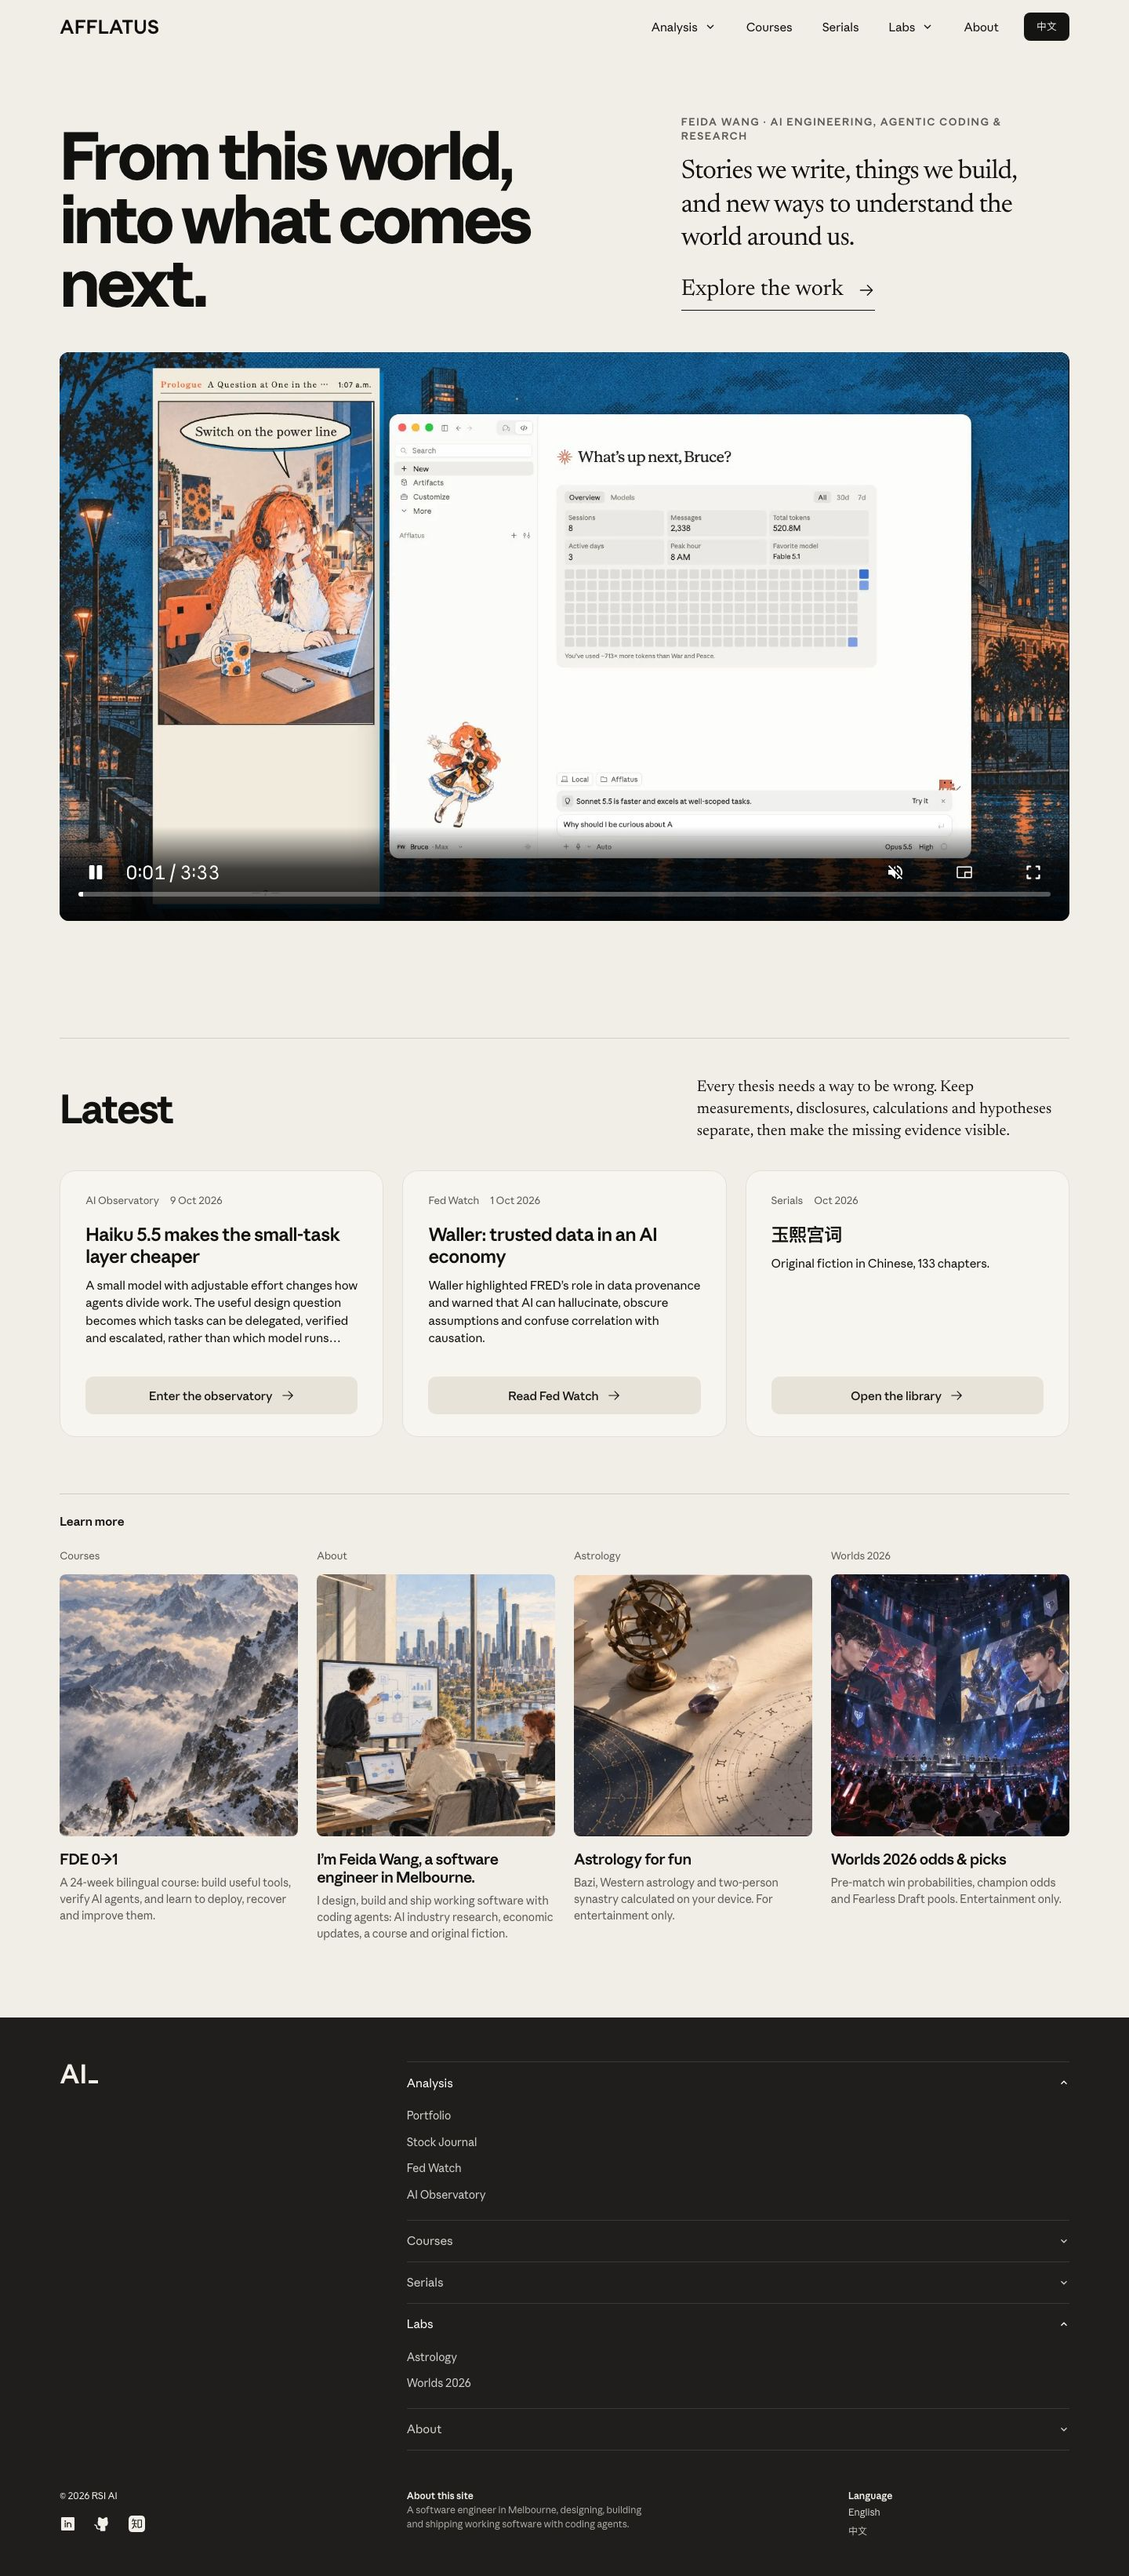
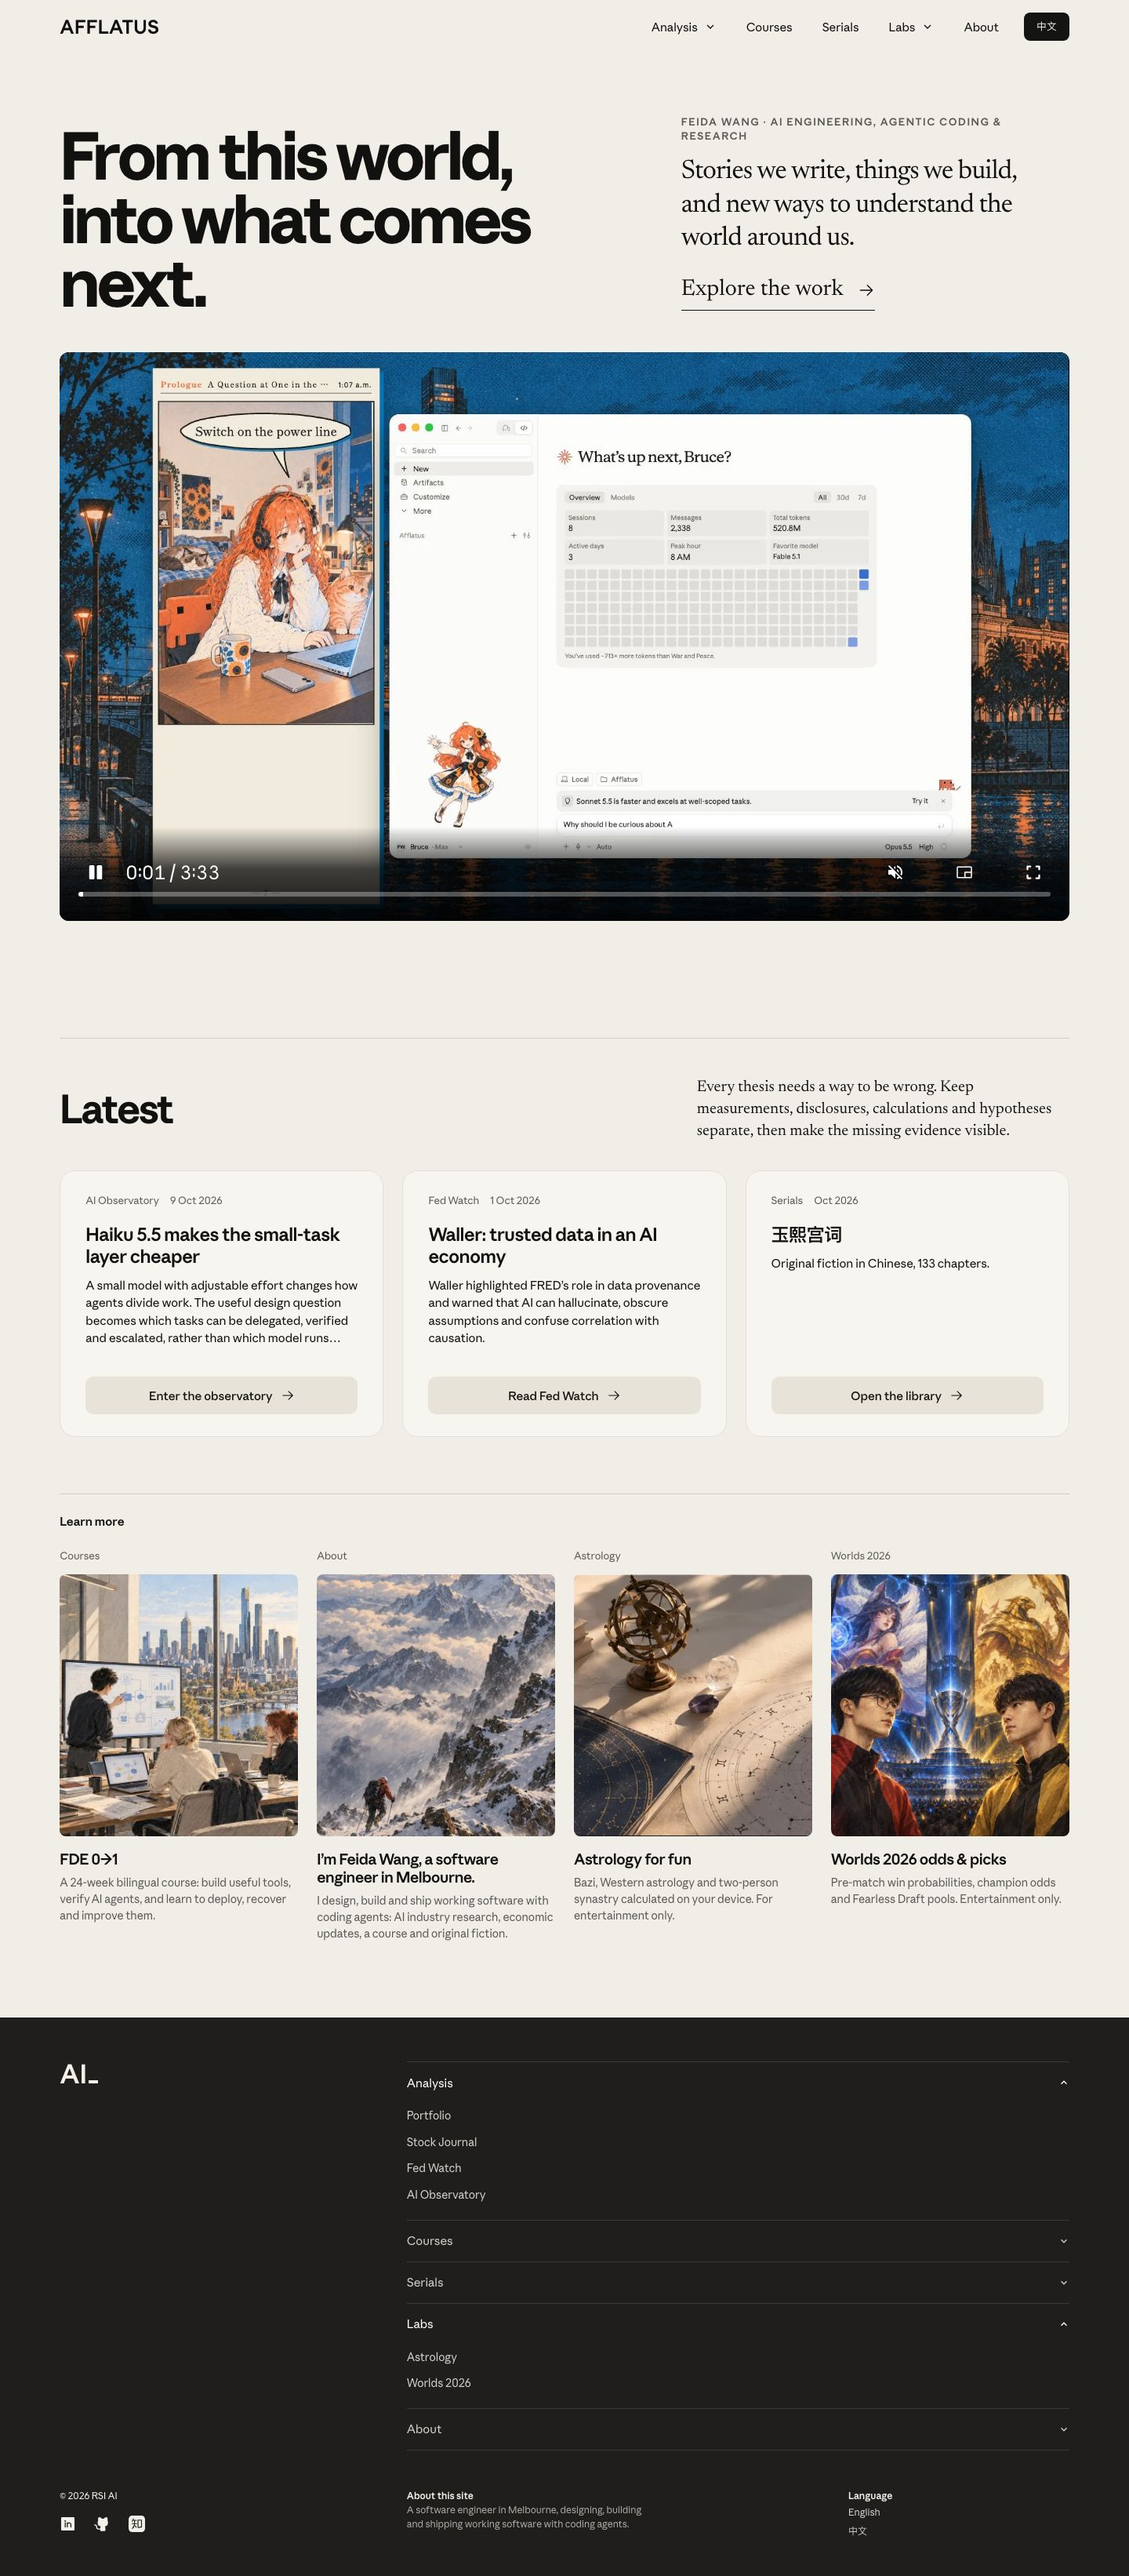
feat(home): settle P2 covers, script budget and link check
Swap the Courses and About covers and redraw the Worlds cover. The footer
language links now remember the choice like the header button.

Turn off Vite's modulepreload polyfill, which every supported browser no
longer needs, bringing serial.html back inside its script budget (24776 B
of 24792 B). Skip sites that reject crawlers and the serverless
treasury-yields route in linkcheck, so it reports real breakage again.

Changed region(s): [[0.0312, 0.5901, 0.5, 0.7144], [0.7188, 0.5901, 0.9688, 0.7144]]

diff --git a/e2e/home-cards.spec.js b/e2e/home-cards.spec.js
@@ -28,6 +28,14 @@ test.describe('homepage cards and accordion footer', () => {
     await expect(analysis.locator('a').first()).toHaveAttribute('href', '/zh/portfolio.html');
   });
 
+  test('footer language link remembers the choice', async ({ page }) => {
+    await page.goto('/en/about.html', { waitUntil: 'domcontentloaded' });
+    // The fixture resets the stored locale on every document, so stay on this one to read it.
+    await page.evaluate(() => window.addEventListener('click', event => event.preventDefault()));
+    await page.locator('[data-footer-language="zh"]').click();
+    expect(await page.evaluate(() => localStorage.getItem('afflatus:locale:v1'))).toBe('zh');
+  });
+
   for (const path of ['about.html', 'course.html', 'signal.html', 'portfolio.html', 'arena.html', 'course/guide.html']) {
     test(`footer language links stay on /${path}`, async ({ page }) => {
       await page.goto(`/en/${path}`, { waitUntil: 'domcontentloaded' });

diff --git a/vite.config.js b/vite.config.js
@@ -95,6 +95,8 @@ export default defineConfig({
     port: 4173
   },
   build: {
+    // Every supported browser has native modulepreload; the polyfill only added weight to each entry.
+    modulePreload: { polyfill: false },
     rollupOptions: {
       // Route inclusion is declared once in siteManifest.js. Retired archive
       // experiences remain in git history; their URLs ship only as redirects.

diff --git a/src/showcase/homeCards.js b/src/showcase/homeCards.js
@@ -54,8 +54,8 @@ export const LEARN_CARDS = [
   {
     href: '/worlds.html',
     image: '/assets/home/learn-worlds.webp',
-    width: 414,
-    height: 455,
+    width: 640,
+    height: 704,
     title: { en: 'Worlds 2026 odds & picks', zh: '2026 全球总决赛赔率与竞猜' },
     summary: {
       en: 'Pre-match win probabilities, champion odds and Fearless Draft pools. Entertainment only.',

diff --git a/src/lib/nav.js b/src/lib/nav.js
@@ -43,3 +43,8 @@ document.querySelector('[data-header-language]')?.addEventListener('click', even
   const next = document.querySelector('[data-header-language]').hreflang.startsWith('zh') ? 'zh' : 'en';
   setLocale(next);
 });
+
+document.addEventListener('click', event => {
+  const link = event.target.closest?.('[data-footer-language]');
+  if (link) setLocale(link.dataset.footerLanguage);
+});

diff --git a/docs/homepage-collapse-2026-11-01/roadmap.md b/docs/homepage-collapse-2026-11-01/roadmap.md
@@ -195,7 +195,7 @@ AFFLATUS
 | 6 | 手机菜单 | 深色全屏 + 最新轮播（M5），放 P4；P1 先在现有米色菜单里按 5 组分段 |
 | 7 | 图卡封面 | 新出 4 张 1:1.1 无文字封面，P2 开工前准备 |
 | 8 | 专题页 URL | `/search.html?topic=`，为站内搜索留位 |
-| 9 | 「了解更多」四张卡 | 按页面：课程 · 关于 · 趣味占星 · 全球总决赛（§4-M2）；封面由站主提供，存为 `public/assets/home/learn-{courses,about,astrology,worlds}.webp`，取代 §5 的按分组写法 |
+| 9 | 「了解更多」四张卡 | 按页面：课程 · 关于 · 趣味占星 · 全球总决赛（§4-M2）；课程、关于、占星封面由站主提供，全球总决赛封面用 Figma 重画（Faker、Chovy），存为 `public/assets/home/learn-{courses,about,astrology,worlds}.webp`，取代 §5 的按分组写法 |
 | 10 | 「≤ 18 链接」口径 | 只算顶栏导航和正文：顶栏 9 + Hero 1 + 7 张卡各 1 个链接 = 17，页脚另计；因此不做 §4-M2 卡片结构里的两条行链接 |
 
 原型（`mock/`）与截图仍是敲定前的 Markets / Learn / Stories 命名和 `/topics.html` 地址，实施以本节为准，不再更新原型。
